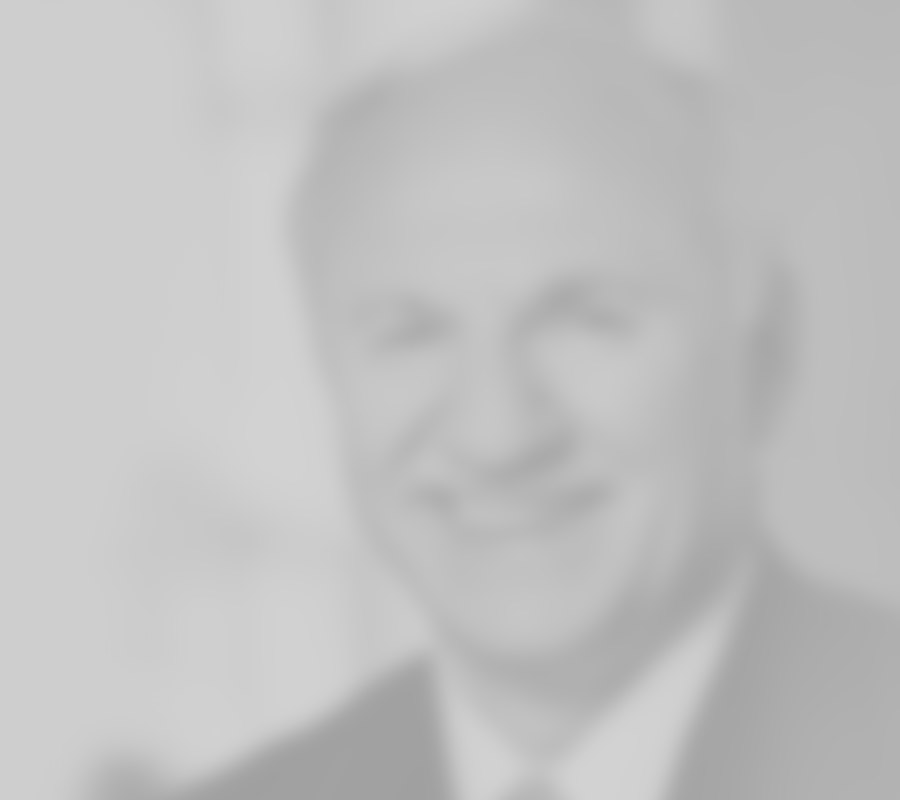
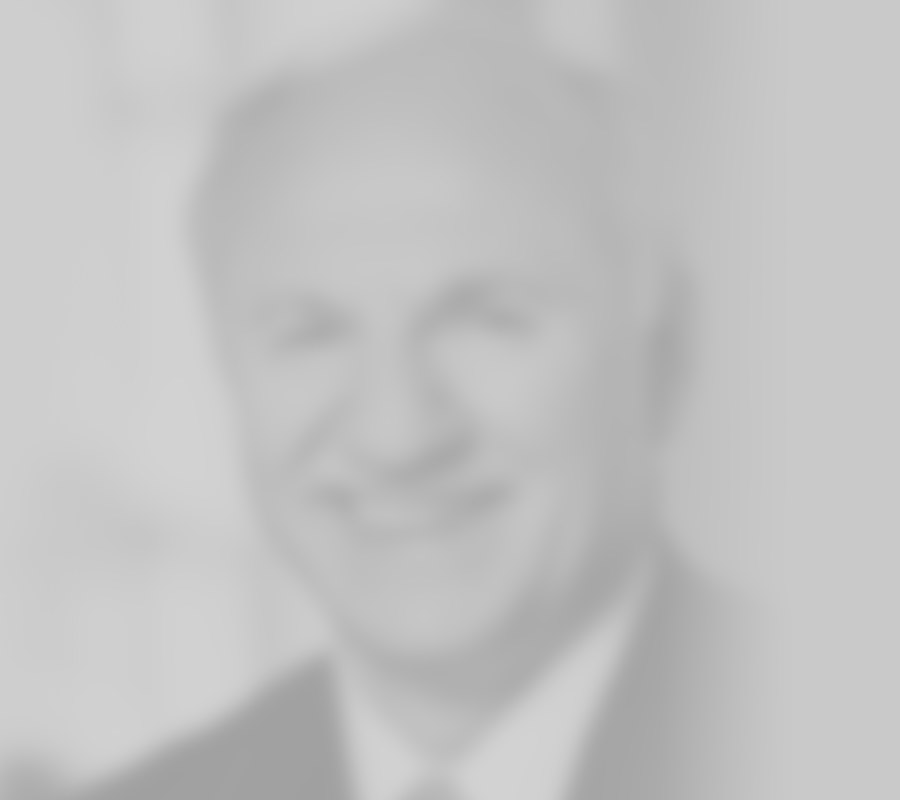
se reemplazan images gary y gary blur

diff --git a/index.html b/index.html
@@ -99,7 +99,7 @@
 
 
 
-			<!-- bienvenidos -->
+			<!-- bienvenidos final -->
 			<section class="col-md-12 sections bienvenidos pantalla-final" id="pantalla-final">
 				<!--h1 class="logo"><span>Salazar & Bogoya</span></h1-->
 				<div class="container-all">
